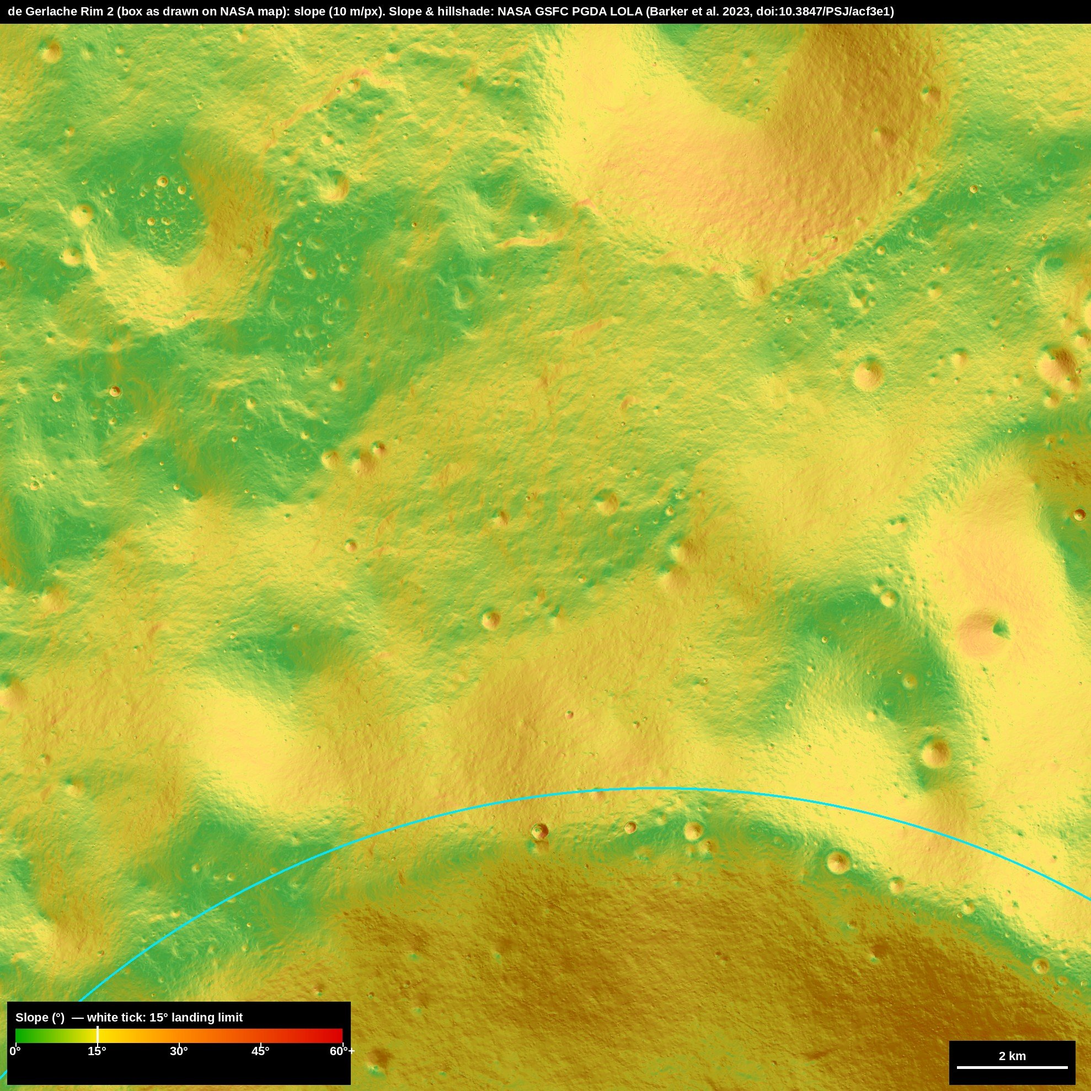
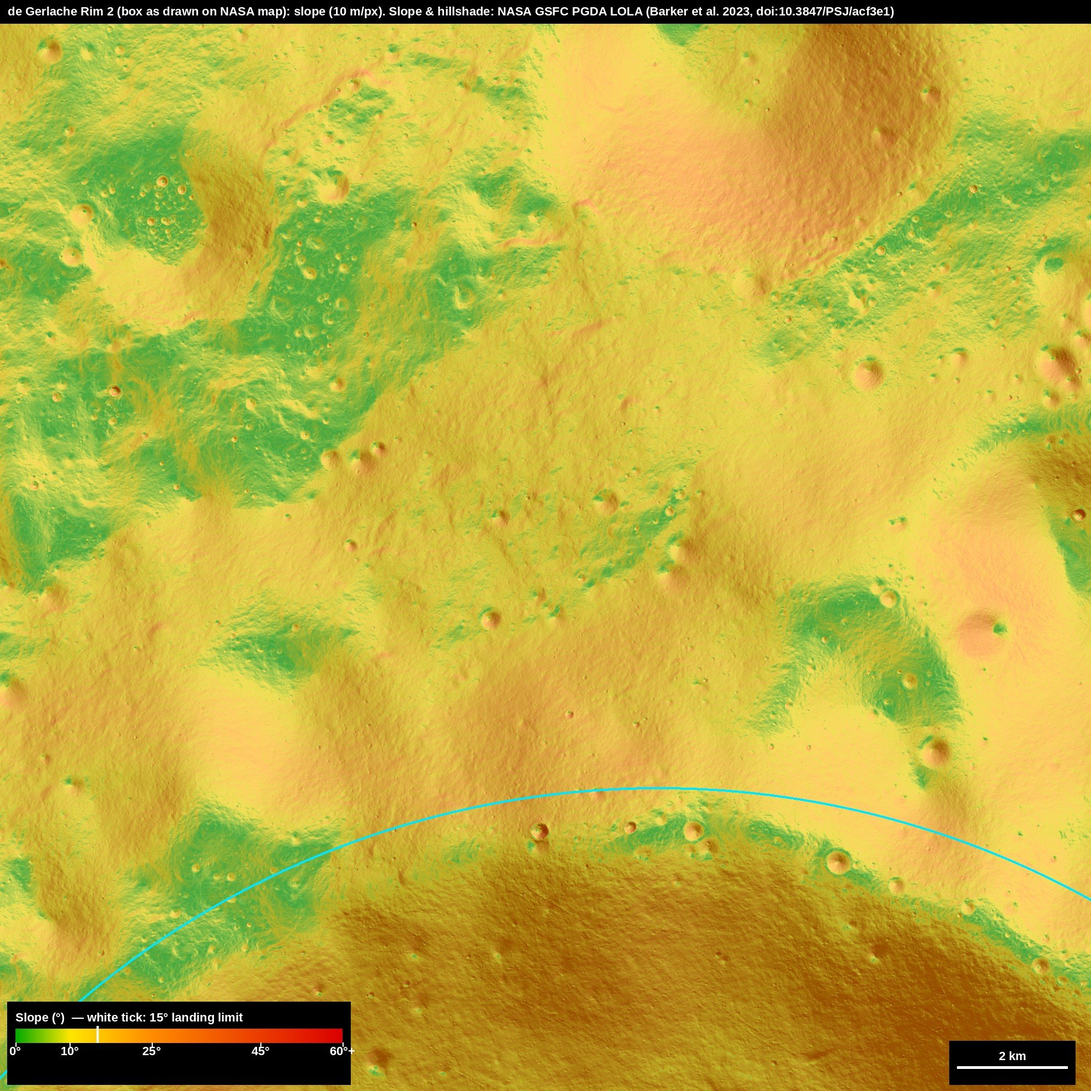
M00: slope colour scale 0° green, 10° yellow, 25° orange, 60°+ red
Claude-Session: https://claude.ai/code/session_01EMgvSv8Ki6A9jj7v8eiV3S

diff --git a/analysis/slope/render.py b/analysis/slope/render.py
@@ -3,8 +3,8 @@ from read import *
 from PIL import Image, ImageDraw, ImageFont
 FB='/usr/share/fonts/truetype/liberation/LiberationSans-Bold.ttf'
 def cmap(s):
-    # 0 green -> 15 yellow -> 30 orange -> 60+ red (linear between stops)
-    stops=np.array([0,15,30,60.]); cols=np.array([[0,170,0],[255,230,0],[255,140,0],[220,0,0]],float)
+    # 0 green -> 10 yellow -> 25 orange -> 60+ red (linear between stops)
+    stops=np.array([0,10,25,60.]); cols=np.array([[0,170,0],[255,230,0],[255,140,0],[220,0,0]],float)
     s=np.clip(s,0,60); out=np.zeros(s.shape+(3,))
     for c in range(3): out[...,c]=np.interp(s,stops,cols[:,c])
     return out
@@ -46,7 +46,7 @@ def make(name,bounds,res,out,alpha=0.6,threshold_mode=False,annot=(),title=''):
     else:
         g=cmap(np.linspace(0,60,lw)); 
         for i in range(lw): d.line([(lx+i,ly),(lx+i,ly+lh)],fill=tuple(int(c) for c in g[i]))
-        for v in (0,15,30,45,60):
+        for v in (0,10,25,45,60):
             xx=lx+lw*v/60; d.line([(xx,ly+lh),(xx,ly+lh+5*k)],fill='white',width=2); d.text((xx,ly+lh+6*k),f'{v}°'+('+' if v==60 else ''),font=Fs,fill='white',anchor='mt')
         xx=lx+lw*15/60; d.line([(xx,ly-3*k),(xx,ly+lh)],fill='white',width=max(2,int(3*k)))
         d.text((lx,ly-6*k),'Slope (°)  — white tick: 15° landing limit',font=Fs,fill='white',anchor='ld')

diff --git a/_milestones/m00-site-selection.md b/_milestones/m00-site-selection.md
@@ -117,7 +117,7 @@ Connecting Ridge and Connecting Ridge Extension were on NASA's original 2022 lis
 
 ## Terrain slope in the focus area
 
-Open Moon treats **slopes of 15° or less as suitable for landing**. Slope comes from NASA Goddard's LOLA slope map (LDSM) at 10 m per pixel<sup class="r">[18](#s18)</sup>. Colours run from green at 0° through yellow at 15° (the landing limit) and orange at 30° to red at 60° and steeper, laid over NASA's LOLA hillshade. The boxes are placed using the alignment of the NASA map above, so their edges are approximate.
+Open Moon treats **slopes of 15° or less as suitable for landing**. Slope comes from NASA Goddard's LOLA slope map (LDSM) at 10 m per pixel<sup class="r">[18](#s18)</sup>. Colours run from green at 0° through yellow at 10° and orange at 25° to red at 60° and steeper; the 15° landing limit falls between yellow and orange and is marked on the legend, laid over NASA's LOLA hillshade. The boxes are placed using the alignment of the NASA map above, so their edges are approximate.
 
 | Area | Share at ≤15° | Median slope | 95th percentile | Steepest | Map resolution |
 |---|---|---|---|---|---|

diff --git a/analysis/slope/README.md b/analysis/slope/README.md
@@ -5,7 +5,7 @@ map (LDSM_83S_10MPP_ADJ) and hillshade (LDEM_83S_10MPP_ADJ_HILL), product page
 https://pgda.gsfc.nasa.gov/products/90 (cite Barker et al. 2023, doi:10.3847/PSJ/acf3e1).
 
 - `read.py` reads only the needed window over HTTP, tile by tile, retrying empty tiles.
-- `render.py` colours slope 0° green → 15° yellow → 30° orange → 60°+ red, or ≤15° green / >15° red.
+- `render.py` colours slope 0° green → 10° yellow → 25° orange → 60°+ red, or ≤15° green / >15° red.
 
 Requires `pip install rasterio pillow numpy`. Box positions come from NASA's
 Oct 2024 nine-region map (pole marker and 50 km scale bar), so they are approximate.
